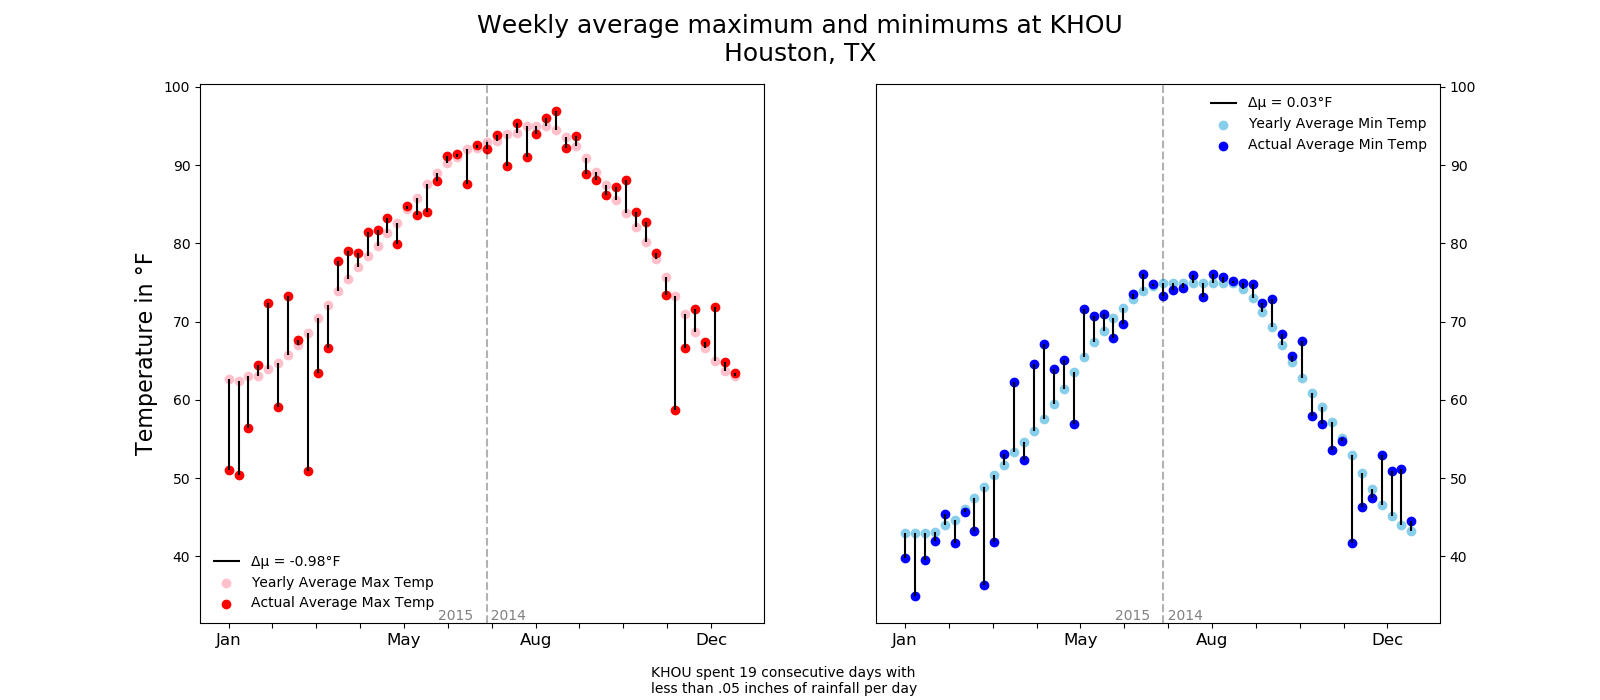
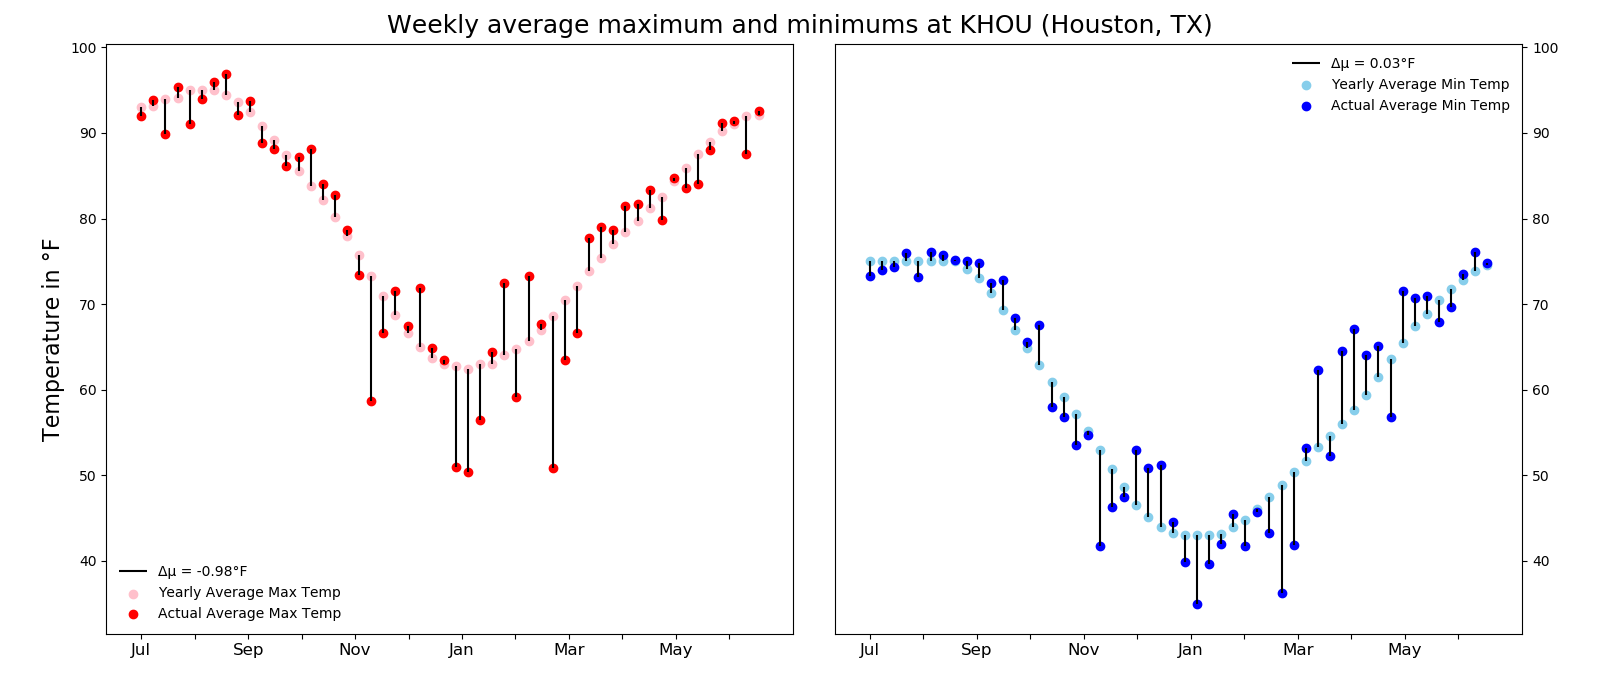
fixed weekly weather plots

diff --git a/exploratory.py b/exploratory.py
@@ -68,43 +68,45 @@ class weather_examiner(object):
         df = self.load_and_transform(location)
         week_df = df.groupby(['week']).mean().reset_index()
 
+        week_df['adjusted_week'] = week_df.apply(
+            lambda row: row.week - 26 if row.week - 26 > 0 else row.week + 26,
+            axis=1)
         delta_max, delta_min = self.get_change_in_average(df)
         max_str = f'Δμ = {delta_max:.2f}°F'
         min_str = f'Δμ = {delta_min:.2f}°F'
 
-        rainfall = self.longest_drought(df)
-
         # Create the plots
         fig, ax = plt.subplots(1, 2, sharex=True, sharey=True, figsize=(16, 7))
         # Set the X ticks to month names increasing clarity
-        months = ['Jan', '', '', '', 'May', '', '', 'Aug', '', '', '', 'Dec']
+        months = ['Jul', '', 'Sep', '', 'Nov', '',
+                  'Jan', '', 'Mar', '', 'May', '']
         ticks = np.linspace(1, 54, num=12, endpoint=False)
         plt.setp(ax, xticks=ticks, xticklabels=months)
         ax[0].tick_params(axis="x", labelsize=12)
         ax[1].tick_params(axis="x", labelsize=12)
-        # Dashed line and text to show which year the data take place
-        ax[0].axvline(df.week[0], ls='--', color='black', alpha=.3)
-        ax[1].axvline(df.week[0], ls='--', color='black', alpha=.3)
-        plt.text(.423, .005, '2015    2014', fontsize=10,
-                 transform=ax[1].transAxes, alpha=.5)
-        plt.text(.423, .005, '2015    2014', fontsize=10,
-                 transform=ax[0].transAxes, alpha=.5)
+        # # Dashed line and text to show which year the data take place
+        # ax[0].axvline(df.week[0], ls='--', color='black', alpha=.3)
+        # ax[1].axvline(df.week[0], ls='--', color='black', alpha=.3)
+        # plt.text(.423, .005, '2015    2014', fontsize=10,
+        #          transform=ax[1].transAxes, alpha=.5)
+        # plt.text(.423, .005, '2015    2014', fontsize=10,
+        #          transform=ax[0].transAxes, alpha=.5)
 
         # Plot lines to visualize the difference
-        ax[0].vlines(week_df.week, week_df.average_max_temp,
+        ax[0].vlines(week_df.adjusted_week, week_df.average_max_temp,
                      week_df.actual_max_temp, label=max_str)
-        ax[1].vlines(week_df.week, week_df.average_min_temp,
+        ax[1].vlines(week_df.adjusted_week, week_df.average_min_temp,
                      week_df.actual_min_temp, label=min_str)
 
         # Plot the weekly historical averages
-        ax[0].scatter(week_df.week, week_df.average_max_temp,
+        ax[0].scatter(week_df.adjusted_week, week_df.average_max_temp,
                       color='pink', label='Yearly Average Max Temp')
-        ax[1].scatter(week_df.week, week_df.average_min_temp,
+        ax[1].scatter(week_df.adjusted_week, week_df.average_min_temp,
                       color='skyblue', label='Yearly Average Min Temp')
         # Plot the current weekly averages
-        ax[0].scatter(week_df.week, week_df.actual_max_temp,
+        ax[0].scatter(week_df.adjusted_week, week_df.actual_max_temp,
                       color='red', label='Actual Average Max Temp')
-        ax[1].scatter(week_df.week, week_df.actual_min_temp,
+        ax[1].scatter(week_df.adjusted_week, week_df.actual_min_temp,
                       color='blue', label='Actual Average Min Temp')
 
         # Show the legends and remove the frame to see the plots better
@@ -112,17 +114,14 @@ class weather_examiner(object):
         ax[1].legend(loc="upper right", framealpha=0)
         # Set Y label and increse text size
         ax[0].set_ylabel('Temperature in °F', fontsize=16)
-        # Set text box to describe longest period with only < .05" of rain
-        plt.text(-.4, -.13, f'{location} spent {rainfall} consecutive '
-                 'days with\nless than .05 inches of rainfall per day',
-                 fontsize=10, transform=ax[1].transAxes)
+
         # Put a title in the center of the two graphs
         plt.suptitle(f'Weekly average maximum and minimums at '
-                     '{location}\n{name}',
+                     f'{location} ({name})',
                      fontsize=18)
         # Add ticks and labels to left side
         ax[1].tick_params(labelright=True, right=True, left=False)
-
+        plt.tight_layout(pad=3)
         if save:
             plt.savefig('imgs/'+location+'.png')
 
@@ -214,13 +213,14 @@ class weather_examiner(object):
         # Plot the data
         plt.bar(ind-width, rain_records, width=width, label='Record Rain',
                 color='skyblue')  # 35 total
-        plt.bar(ind, hot_records, width=width, label='Record Highs',
+        plt.bar(ind, hot_records, width=width, label='Record High',
                 color='red')  # 53 total
-        plt.bar(ind+width, cold_records, width=width, label='Record Lows',
+        plt.bar(ind+width, cold_records, width=width, label='Record Low',
                 color='blue')  # 18 total
         # place xticks with reordered location names
         plt.xticks(ind + width / 3, [self.locs[i] for i in sorted_idx],
                    fontsize=10, rotation=40)
+        plt.yticks(np.linspace(4, 20, 5))
         # Set labels and titles
         plt.ylabel('Number of Days', fontsize=14)
         plt.xlabel('Locations', fontsize=14)
@@ -260,9 +260,9 @@ class weather_examiner(object):
 if __name__ == "__main__":
     weather_ex = weather_examiner()
     # Bools to control which graphs are produced and if they are saved
-    make_temp_graphs = False
+    make_temp_graphs = True
     graph_rain = False
-    graph_record = True
+    graph_record = False
     graph_consecutive = False
     save = True
 

diff --git a/README.md b/README.md
@@ -10,7 +10,6 @@ While looking through the dataset
 
 When reviewing this graph two things stood out to me. First, Houston (KHOU), received over 60 inches of precipitation over a one year span and more than a foot more than the closest other cities in the dataset. Houston's biggest month of rainfall came in May 2015 which I looked into further and discovered that on memorial day Houston received around 12 inches of rain in the span of ten hours causing $459.8 million in damages, one of the costliest floods in American history.
 
-![Motorists are stranded along I-45 along North Main in Houston after storms flooded the area, Tuesday, May 26, 2015. Overnight heavy rains caused flooding closing some portions of major highways in the Houston area. (Cody Duty/Houston Chronicle via AP)](https://s.hdnux.com/photos/36/61/67/8068597/9/ratio3x2_1050.jpg)
 
 On the other end of the spectrum I fully expected Seattle (KSEA) to be the leader in this category due to its reputation as the rainy city. However it came fourth, behind Houston, New York (KNYC), Philadelphia (KPHL), Indianapolis (KIND) and Jacksonville(KJAX). Going further into my analysis I would find that Seattle ended up having a record setting year of heat. (Upon further research I learned that Seattle is known as the rainiest city due to the number of days with rain and not the amount.)
 
@@ -18,7 +17,7 @@ On the other end of the spectrum I fully expected Seattle (KSEA) to be the leade
 
 # Long periods without Precipitation 
 
-LA (KCQT), while is in a desert, having less than ten inches of total rainfall struck me as odd digging further I found that LA had 122 consecutive days where the precipitation was less than 1/20th of an inch with the next closest in Phoenix (KPHX)
+LA (KCQT), while is in a desert, having less than ten inches of total rainfall struck me as odd digging further I found that LA had 122 consecutive days where the precipitation was less than 1/20th of an inch with the next closest in Phoenix (KPHX) at less than half the duration. Indy only reached a maximum of 18 consecutive days without significant rainfall, the lowest of all ten cities.
 
 ![](imgs/consecutive_days.png)
 
@@ -27,7 +26,7 @@ LA (KCQT), while is in a desert, having less than ten inches of total rainfall s
 # Historic Weather
 ![](imgs/record_days.png)
 
-Seattle set the most heat records with 25 beating Phoenix at 17 and every other city set records in the single digits. Seattle and Phoenix are joined by LA  as the only cities in this dataset to not set a new record low during this time span. 
+Seattle set the most heat records with 25 beating Phoenix at 17 and every other city set records in the single digits. 
 
 # Weekly Averages 
 After seeing the number of records set in the timespan of the dataset I wanted to look at each city closer and see how different 2014-2015 was when compared to the average year in the city.
@@ -37,7 +36,7 @@ Seattle had an extremely warm year with the average high 3.87°F warmer than yea
 
 LA came in as a close second with highs 2.59°F higher and lows 3.02° warmer. However, LA spent 122 consecutive days without significant rainfall.
 
-Indianapolis had a colder year than average with highs 2.51°F colder and lows averaging 1.69°F lower than their average year. Indy also only reached a maximum of 18 consecutive days without significant rainfall, the lowest of all ten cities.
+Indianapolis had a colder year than average with highs 2.51°F colder and lows averaging 1.69°F lower than their average year. 
 
 Sources: [Weather Underground](http://wunderground.com)
 
